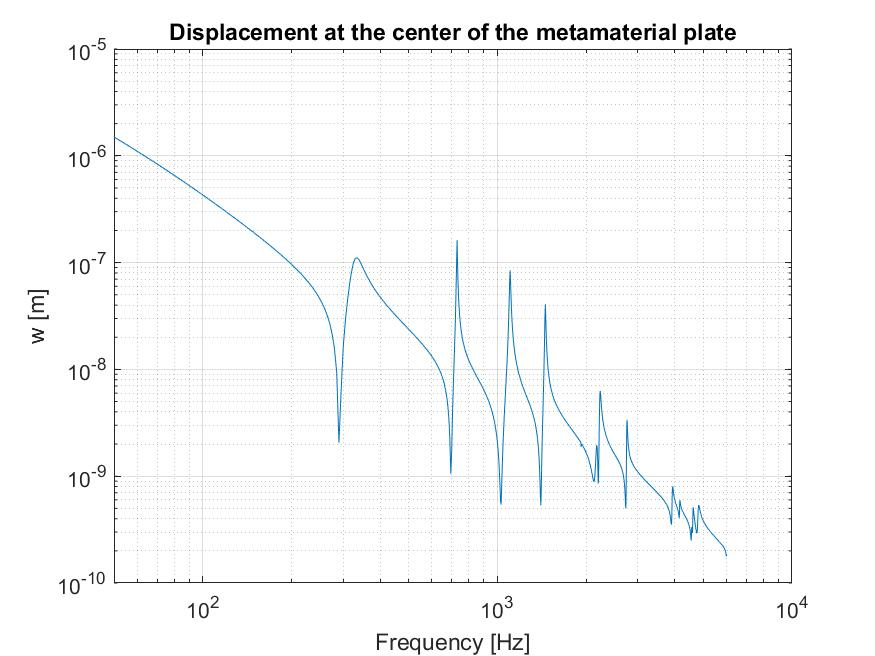
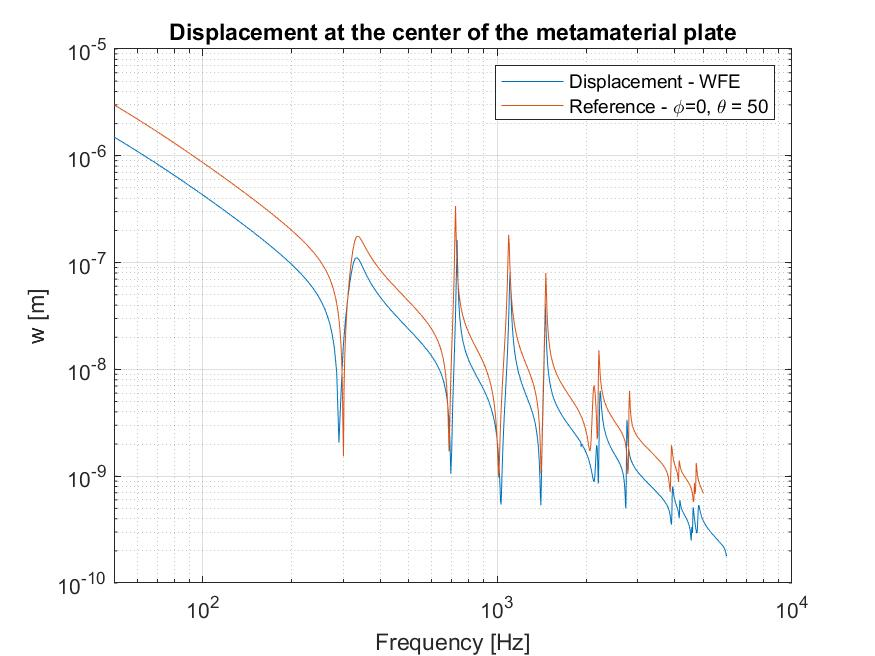
Original - Com comparacao de deslocamento

diff --git a/consolidado_caso_geral/main_stl_plate_resonators_consolidado_caso_geral.m b/consolidado_caso_geral/main_stl_plate_resonators_consolidado_caso_geral.m
@@ -30,9 +30,9 @@ fmin = 50; %[Hz]
 df = 5; %[Hz]
 fmax = 6000; %[Hz]
 
-f=fmin:df:fmax;
-omega = 2*pi*f; %[rad/s]
-nfreq = length(f);
+freq=fmin:df:fmax;
+omega = 2*pi*freq; %[rad/s]
+nfreq = length(freq);
 
 % Number of elements
 nel_x =8;
@@ -146,7 +146,7 @@ W1_mn_store= zeros(m_index,n_index,nfreq);
 % Begin frequency loop
 for i=1:nfreq
 
-A1 = f(i);   
+A1 = freq(i);   
 formatSpec = ' \n Frequency =%4.2f Hz \n';
 fprintf(formatSpec,A1)    
     
@@ -384,7 +384,7 @@ end
 % 
 % %Receptance
 % alfa = u_z/F0;
-% semilogx(f,20*log10(abs(alfa)),'k','LineWidth',2)
+% semilogx(freq,20*log10(abs(alfa)),'k','LineWidth',2)
 % hold on
 % plot(freq_vector_comsol,Recpt_comsol,'r--','LineWidth',2)
 % title('Receptance at the center of the bare plate')
@@ -414,9 +414,9 @@ title('Normalized values of harmonics for a given frequency')
 %% WAVENUMBERS GRAPHS
 
 figure
-plot(f,kx_p,'LineWidth',2)
+plot(freq,kx_p,'LineWidth',2)
 hold on
-plot(f,ky_p,'LineWidth',2)
+plot(freq,ky_p,'LineWidth',2)
 title('Wavenumbers of the excitation waves')
 legend('k_x','k_y')
 xlabel('Frequency [Hz]')
@@ -428,7 +428,7 @@ for pp =1:m_index
     for pp2 = 1:n_index
 
 hold on       
-plot(f,kx_aux_p(:,pp,pp2),'LineWidth',2)
+plot(freq,kx_aux_p(:,pp,pp2),'LineWidth',2)
 hold on
 
     end
@@ -442,7 +442,7 @@ for pp3 =1:m_index
     for pp4 = 1:n_index
 
 hold on       
-plot(f,ky_aux_p(:,pp3,pp4),'LineWidth',2)
+plot(freq,ky_aux_p(:,pp3,pp4),'LineWidth',2)
 hold on
 
     end
@@ -457,31 +457,31 @@ figure
 %     for pp6 = 1:n_index
 % 
 % hold on       
-% plot(f,abs(real(kzmn_p(:,pp5,pp6))),'LineWidth',2)
+% plot(freq,abs(real(kzmn_p(:,pp5,pp6))),'LineWidth',2)
 % hold on
-% plot(f,-abs(imag(kzmn_p(:,pp5,pp6))),'LineWidth',2)
+% plot(freq,-abs(imag(kzmn_p(:,pp5,pp6))),'LineWidth',2)
 %     end
 % end
 
-plot(f,abs(real(kzmn_p(:,5,1))),'LineWidth',2)
+plot(freq,abs(real(kzmn_p(:,5,1))),'LineWidth',2)
 hold on
-plot(f,-abs(imag(kzmn_p(:,5,1))),'LineWidth',2)
+plot(freq,-abs(imag(kzmn_p(:,5,1))),'LineWidth',2)
 hold on
-plot(f,abs(real(kzmn_p(:,6,1))),'LineWidth',2)
+plot(freq,abs(real(kzmn_p(:,6,1))),'LineWidth',2)
 hold on
-plot(f,-abs(imag(kzmn_p(:,6,1))),'LineWidth',2)
+plot(freq,-abs(imag(kzmn_p(:,6,1))),'LineWidth',2)
 hold on
-plot(f,abs(real(kzmn_p(:,7,1))),'LineWidth',2)
+plot(freq,abs(real(kzmn_p(:,7,1))),'LineWidth',2)
 hold on
-plot(f,-abs(imag(kzmn_p(:,7,1))),'LineWidth',2)
+plot(freq,-abs(imag(kzmn_p(:,7,1))),'LineWidth',2)
 hold on
-plot(f,abs(real(kzmn_p(:,8,1))),'LineWidth',2)
+plot(freq,abs(real(kzmn_p(:,8,1))),'LineWidth',2)
 hold on
-plot(f,-abs(imag(kzmn_p(:,8,1))),'LineWidth',2)
+plot(freq,-abs(imag(kzmn_p(:,8,1))),'LineWidth',2)
 hold on
-plot(f,abs(real(kzmn_p(:,9,1))),'LineWidth',2)
+plot(freq,abs(real(kzmn_p(:,9,1))),'LineWidth',2)
 hold on
-plot(f,-abs(imag(kzmn_p(:,9,1))),'LineWidth',2)
+plot(freq,-abs(imag(kzmn_p(:,9,1))),'LineWidth',2)
 
 legend('Real m=0,n=0','Imag m=0,n=0','Real m=1,n=0','Imag m=1,n=0',...
     'Real m=2,n=0','Imag m=2,n=0','Real m=3,n=0','Imag m=3,n=0', 'Real m=4,n=0','Imag m=4,n=0')
@@ -492,21 +492,21 @@ ylabel('kz_mn [2\pi/m]')
 
 figure
 
-plot(f,abs(real(kzmn_p(:,1,1))),'LineWidth',2)
+plot(freq,abs(real(kzmn_p(:,1,1))),'LineWidth',2)
 hold on
-plot(f,-abs(imag(kzmn_p(:,1,1))),'LineWidth',2)
+plot(freq,-abs(imag(kzmn_p(:,1,1))),'LineWidth',2)
 hold on
-plot(f,abs(real(kzmn_p(:,2,1))),'LineWidth',2)
+plot(freq,abs(real(kzmn_p(:,2,1))),'LineWidth',2)
 hold on
-plot(f,-abs(imag(kzmn_p(:,2,1))),'LineWidth',2)
+plot(freq,-abs(imag(kzmn_p(:,2,1))),'LineWidth',2)
 hold on
-plot(f,abs(real(kzmn_p(:,3,1))),'LineWidth',2)
+plot(freq,abs(real(kzmn_p(:,3,1))),'LineWidth',2)
 hold on
-plot(f,-abs(imag(kzmn_p(:,3,1))),'LineWidth',2)
+plot(freq,-abs(imag(kzmn_p(:,3,1))),'LineWidth',2)
 hold on
-plot(f,abs(real(kzmn_p(:,4,1))),'LineWidth',2)
+plot(freq,abs(real(kzmn_p(:,4,1))),'LineWidth',2)
 hold on
-plot(f,-abs(imag(kzmn_p(:,4,1))),'LineWidth',2)
+plot(freq,-abs(imag(kzmn_p(:,4,1))),'LineWidth',2)
 
 
 
@@ -526,12 +526,16 @@ ylabel('kz_mn [2\pi/m]')
 
 save('STL','STL')
 
+load f_ref 
+load uz_damp
+
 %To be compared with figure 6b of the paper
 figure
-loglog(f,abs(disp))
+loglog(freq,abs(disp),f,abs(uz_damp))
 title('Displacement at the center of the metamaterial plate')
 xlabel('Frequency [Hz]')
 ylabel('w [m]')
+legend('Displacement - WFE','Reference - \phi=0, \theta = 50 ')
 %axis([fmin,fmax,1*10-6,1*10-4])
 
 grid on
@@ -540,9 +544,8 @@ saveas(gcf,'displacement.jpg')
 
 %To be compared with figure 10 of the paper
 figure
-semilogx(f,STL)
+semilogx(freq,STL)
 hold on
-load f_ref 
 load STL_ref
 semilogx(f,STL_damp)
 title('Sound Transmission Loss for a Metamaterial')
